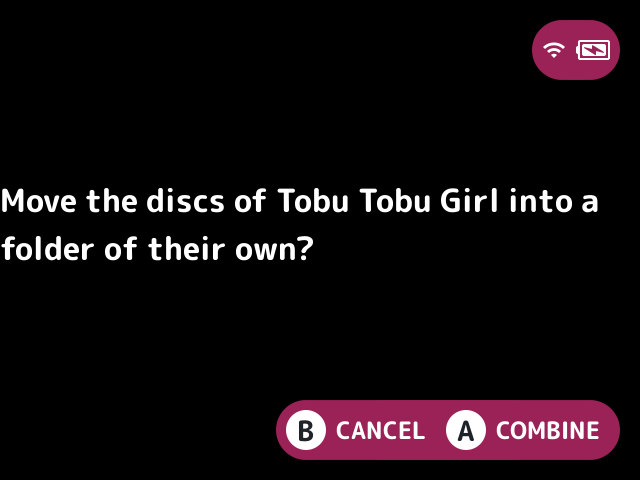
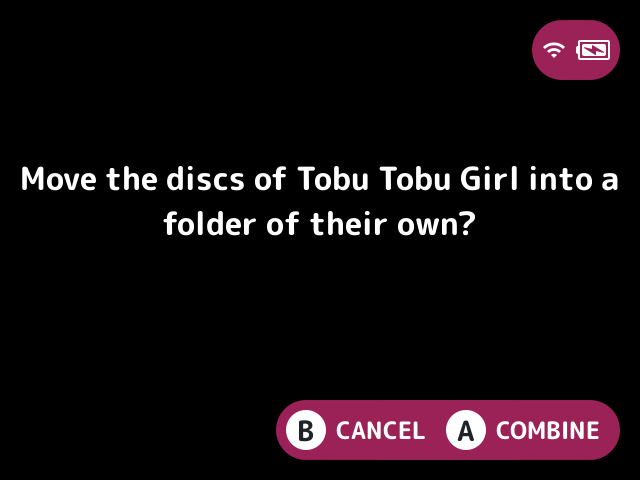
fix: keep a dialog's wrapped text inside its padding
Confirm and message dialogs now wrap their message themselves inside the screen less its side padding, as minarch passes its own messages, so a long line no longer runs from the screen's left edge and every line is centred. Stock's `GFX_blitMessage` is unchanged.

Changed region(s): [[0.0, 0.3438, 0.9688, 0.5625]]

diff --git a/tests/c/test_fallback.c b/tests/c/test_fallback.c
@@ -145,6 +145,33 @@ static void testLines(void) {
 }
 
 // A font with ASCII only.
+static void testWrap(void) {
+	char out[64];
+	// the dialog's message: each line it wraps to is one of its own, so
+	// stock's GFX_blitMessage centres each in the width given
+	CHECK(FallbackModel_wrap("one two three", 25, measure, NULL, out, sizeof(out)) == 3);
+	CHECK_STR(out, "one\ntwo\nthree");
+	CHECK(FallbackModel_wrap("one two three", 40, measure, NULL, out, sizeof(out)) == 2);
+	CHECK_STR(out, "one two\nthree");
+	// no line is wider than the width, short of a lone character
+	CHECK(FallbackModel_wrap("abcdefgh ij", 20, measure, NULL, out, sizeof(out)) == 3);
+	CHECK_STR(out, "abcd\nefgh\nij");
+	// newlines kept, a blank line and one at the end too
+	CHECK(FallbackModel_wrap("one\n\ntwo\n", 100, measure, NULL, out, sizeof(out)) == 4);
+	CHECK_STR(out, "one\n\ntwo\n");
+	// what fits is unchanged
+	CHECK(FallbackModel_wrap("one two", 35, measure, NULL, out, sizeof(out)) == 1);
+	CHECK_STR(out, "one two");
+	CHECK(FallbackModel_wrap("", 35, measure, NULL, out, sizeof(out)) == 0);
+	CHECK_STR(out, "");
+	// stops before a line that doesn't fit in out
+	CHECK(FallbackModel_wrap("one two three", 25, measure, NULL, out, 9) == 2);
+	CHECK_STR(out, "one\ntwo");
+	CHECK(FallbackModel_wrap(NULL, 25, measure, NULL, out, sizeof(out)) == -1);
+	CHECK(FallbackModel_wrap("one", 25, NULL, NULL, out, sizeof(out)) == -1);
+	CHECK(FallbackModel_wrap("one", 25, measure, NULL, out, 0) == -1);
+}
+
 static int asciiOnly(uint32_t cp, void* data) {
 	(*(int*)data)++;
 	return cp < 0x80;
@@ -178,6 +205,7 @@ int main(void) {
 	testRuns();
 	testWidths();
 	testLines();
+	testWrap();
 	testMissing();
 	CHECK_DONE();
 }

diff --git a/launcher/modal.c b/launcher/modal.c
@@ -210,15 +210,23 @@ static void drawCentered(TTF_Font* f, int size, const char* text, SDL_Color colo
 	GFX_blitText(f, text, SCALE1(size), color, screen, &r);
 }
 
+// The message centred above the hints, each line it wraps to centred too
+// and kept the screen's padding in from either side, as minarch draws its
+// own messages.
+static void blitMessage(void) {
+	SDL_Rect area = { SCALE1(PADDING), 0, screen->w - SCALE1(PADDING * 2), screen->h - SCALE1(PADDING + PILL_SIZE) };
+	char wrapped[sizeof(message) * 2];
+	Text_wrap(font.large, message, wrapped, sizeof(wrapped), area.w);
+	GFX_blitMessage(font.large, wrapped, screen, &area);
+}
+
 static void confirmRender(void) {
-	SDL_Rect area = { 0, 0, screen->w, screen->h - SCALE1(PADDING + PILL_SIZE) };
-	GFX_blitMessage(font.large, message, screen, &area);
+	blitMessage();
 	GFX_blitButtonGroup((char*[]){ "B", TR("CANCEL"), "A", TR(yes_label), NULL }, 1, screen, 1);
 }
 
 static void messageRender(void) {
-	SDL_Rect area = { 0, 0, screen->w, screen->h - SCALE1(PADDING + PILL_SIZE) };
-	GFX_blitMessage(font.large, message, screen, &area);
+	blitMessage();
 	GFX_blitButtonGroup((char*[]){ "A", TR("OK"), NULL }, 0, screen, 1);
 }
 

diff --git a/launcher/fallbackmodel.c b/launcher/fallbackmodel.c
@@ -127,6 +127,34 @@ size_t FallbackModel_line(const char* text, size_t len, int max_width, FallbackM
 	return len;
 }
 
+int FallbackModel_wrap(const char* text, int max_width, FallbackMeasure measure, void* data, char* out, size_t size) {
+	if (!text || !measure || !out || !size) return -1;
+	out[0] = '\0';
+	size_t len = strlen(text);
+	size_t used = 0;
+	size_t at = 0;
+	int lines = 0;
+	while (at < len) {
+		size_t next;
+		size_t n = FallbackModel_line(text + at, len - at, max_width, measure, data, &next);
+		size_t sep = lines ? 1 : 0;
+		if (used + sep + n >= size) break;
+		if (sep) out[used++] = '\n';
+		memcpy(out + used, text + at, n);
+		used += n;
+		out[used] = '\0';
+		lines++;
+		at += next;
+	}
+	// a newline at the end is a last, empty line
+	if (at == len && len && text[len - 1] == '\n' && used + 1 < size) {
+		out[used++] = '\n';
+		out[used] = '\0';
+		lines++;
+	}
+	return lines;
+}
+
 int FallbackModel_missing(const char* text, size_t len, FallbackHas has, void* data, char* out, size_t size) {
 	if (out && size) out[0] = '\0';
 	// one bit for each code point, so each is counted once

diff --git a/launcher/text.c b/launcher/text.c
@@ -1,5 +1,6 @@
 #include "launcher.h"
 #include "drawmodel.h"
+#include "fallbackmodel.h"
 
 static int measure(const char* text, void* data) {
 	int w = 0;
@@ -17,6 +18,23 @@ int Text_truncate(TTF_Font* font, const char* text, char* out, size_t size, int 
 		return padding;
 	}
 	return width;
+}
+
+// fallbackmodel.c's measure, for the font at data
+static int measureLen(const char* text, size_t len, void* data) {
+	char line[512];
+	if (len >= sizeof(line)) return -1;
+	memcpy(line, text, len);
+	line[len] = '\0';
+	return measure(line, data);
+}
+
+void Text_wrap(TTF_Font* font, const char* text, char* out, size_t size, int max_width) {
+	if (!size) return;
+	if (fontMutex) SDL_LockMutex(fontMutex);
+	int lines = FallbackModel_wrap(text ? text : "", max_width, measureLen, font, out, size);
+	if (fontMutex) SDL_UnlockMutex(fontMutex);
+	if (lines < 0) out[0] = '\0';
 }
 
 void Text_hardwareHints(SDL_Surface* dst, int show_setting) {

diff --git a/launcher/fallbackmodel.h b/launcher/fallbackmodel.h
@@ -51,6 +51,12 @@ typedef int (*FallbackMeasure)(const char* text, size_t len, void* data);
 // writes where the next line starts (len after the last line).
 size_t FallbackModel_line(const char* text, size_t len, int max_width, FallbackMeasure measure, void* data, size_t* next);
 
+// text with each line FallbackModel_line breaks it into in max_width
+// ended by a newline but the last, into out (size bytes), so a line that
+// wraps becomes lines of its own. Stops before a line that doesn't fit in
+// size. Returns the lines written, or -1 for a bad argument.
+int FallbackModel_wrap(const char* text, int max_width, FallbackMeasure measure, void* data, char* out, size_t size);
+
 // 1 when a font has a glyph for cp.
 typedef int (*FallbackHas)(uint32_t cp, void* data);
 

diff --git a/launcher/text.h b/launcher/text.h
@@ -10,6 +10,11 @@
 // (see Draw_truncateChars). ASCII is truncated exactly as stock's is.
 int Text_truncate(TTF_Font* font, const char* text, char* out, size_t size, int max_width, int padding);
 
+// text with a newline wherever it wraps in max_width, into out (size
+// bytes), so stock's GFX_blitMessage centres every line in its rect
+// rather than drawing a wrapped one from the rect's left edge.
+void Text_wrap(TTF_Font* font, const char* text, char* out, size_t size, int max_width);
+
 // GFX_blitHardwareHints with its labels through TR().
 void Text_hardwareHints(SDL_Surface* dst, int show_setting);
 

diff --git a/docs/DEVELOPMENT.md b/docs/DEVELOPMENT.md
@@ -162,7 +162,7 @@ The launcher in `launcher/` started as upstream's `nextui.c`, split into modules
 | `tr.c` | `TR()` and its context and plural forms, which every piece of fixed UI text passes through where it's drawn, and `Tr_plugin()` for plugins' text under their ids, asking the strings slot's owner once for each string and keeping its answers |
 | `rootnames.c` | the SDL-free half of translating the root list's names: a system folder's name between stock's sorting prefix and its tag, and the shown name for one of the launcher's rows or a system |
 | `trmodel.c` | the SDL-free half of the strings slot: whether a translation is safe to draw and to pass to printf (UTF-8, length, lines, the same printf conversions as its English), English's plural rule, and the cache of answers |
-| `text.c` | stock's text truncation and hardware hints made safe for translations: truncating a character at a time so a UTF-8 character is never cut, and the brightness and colour temperature hints through `TR()` |
+| `text.c` | stock's text truncation and hardware hints made safe for translations: truncating a character at a time so a UTF-8 character is never cut, and the brightness and colour temperature hints through `TR()`; and wrapping a dialog's message into lines of its own, so stock's `GFX_blitMessage` centres each one |
 | `actions.c` | named actions, the button bindings that trigger them, and the hints generated from those bindings; an action that takes an entry's path gets the game list's selected entry from a button, and is refused without one |
 | `transitions.c` | the folder slide and the game switcher's entrance animations, and handing those and the launch to the transition and launch slots' owners, drawing their frames |
 | `pluginset.c` | parsing `plugin.txt`, with as many settings as it lists, into a list of as many plugins as there are, warning about a line or field it cuts to fit, and which discovered plugins load, and in what order: `plugins.txt`'s order, then each loading plugin moved after the loading plugins its `optional=` names, once it's decided which load |
@@ -172,7 +172,7 @@ The launcher in `launcher/` started as upstream's `nextui.c`, split into modules
 | `awake.c` | stay-awake files and plugin requests that keep the device from sleeping |
 | `pakhooks.c` | `pre-launch.sh` scripts next to a pak's `launch.sh` |
 | `kbmodel.c` | the on-screen keyboard's layout and typing, apart from drawing |
-| `modal.c` | the confirm, message, keyboard and choice list dialogs |
+| `modal.c` | the confirm, message, keyboard and choice list dialogs; a message is kept the screen's padding in from either side, as minarch draws its own |
 | `cfgfile.c` | reading and writing a plugin's `key=value` settings file |
 | `plugincfg.c` | the SDL-free half of plugins' `cfg_get`, `cfg_set` and `cfg_read`: each plugin's settings, read from its file on first use and kept in memory, and the settings another plugin may read, those its `plugin.txt` marks public |
 | `caller.c` | which plugin's code runs on this thread: `AS_CALLER` (`AS_PLUGIN` in `plugins.c`) sets it around every hook and callback the launcher calls, so `cfg_get` and `cfg_set` act on that plugin's settings, and a plugin's own thread has none |
@@ -223,7 +223,7 @@ The launcher in `launcher/` started as upstream's `nextui.c`, split into modules
 | `palettes.c` | plugins' read-only palette calls: stock's palettes listed by stock's own `PALETTE_enumerate` (its `palette.c`, which the launcher links but never uses to apply one), as its Settings app lists them, and the one the user picked there, the first with the name stock's settings hold; unit tested against stock's `palette.c` and `config.c` on a fixture card |
 | `uisizes.h` | included ahead of every file of `nextui.elf`: turns stock's `PILL_SIZE`, `BUTTON_SIZE`, `BUTTON_MARGIN`, `PADDING`, `MAIN_ROW_COUNT` and `FONT_*` into calls into `theme.c`, which answer stock's own values until a theme sets one |
 | `fallback.c` | the fallback font: opening it at stock's five sizes, a cache of which glyphs each font has, and SDL_ttf's measuring and drawing done run by run (each run in the UI font or the fallback font, baselines lined up, at the UI font's height), or SDL_ttf's own call when there's no fallback font or the UI font has every glyph; and `font_missing`, the characters the UI font lacks |
-| `fallbackmodel.c` | the SDL-free half of the fallback font: decoding UTF-8, splitting text into runs by font (combining marks stay with the character before them), their widths, where wrapped text breaks, and counting the different characters a font lacks |
+| `fallbackmodel.c` | the SDL-free half of the fallback font: decoding UTF-8, splitting text into runs by font (combining marks stay with the character before them), their widths, where wrapped text breaks (and text with a newline at each break), and counting the different characters a font lacks |
 | `fallbackttf.h` | included ahead of every file of `nextui.elf`, before `uisizes.h`: renames `TTF_SizeUTF8`, `TTF_RenderUTF8_Blended` and `TTF_RenderUTF8_Blended_Wrapped` to `fallback.c`'s, so stock's `api.c`, the platform's scrolling text, the launcher and plugins' `draw_text` all use the fallback font |
 | `tintpresent.h` | included ahead of every file of `nextui.elf`, after `fallbackttf.h`: renames `SDL_RenderPresent` to `tint.c`'s `Tint_present`, so every frame the platform's `generic_video.c` shows gets plugins' screen tint last, with no patch to it |
 | `smooth.c` | pill ends and middles, button circles, input prompts and the status bar's icons from stock's sprite sheets, smooth-scaled to a theme's pill or button size once each and kept until the theme changes, for the launcher's build of `api.c` |
